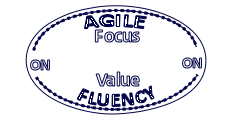
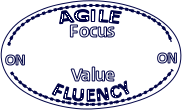
added stamps in passport sandbox

diff --git a/test_client/example/summary_sandbox/client.dart b/test_client/example/summary_sandbox/client.dart
@@ -12,8 +12,38 @@ void addTestSlide()
   //var slideElement = test.currentSection.explain();
   var slideElement = test.currentSection.summary();
   
+  var stamp1 = new ImageElement();
+  stamp1.classes.add("stamp");
+  stamp1.src = "images/stamp_1.png";
+  stamp1.style.left = "3%";
+  stamp1.style.top = "6%";
+  stamp1.style.transform = "rotateZ(10deg)";
+  var stamp2 = new ImageElement();
+  stamp2.classes.add("stamp");
+  stamp2.src = "images/stamp_2.png";
+  stamp2.style.left = "26%";
+  stamp2.style.top = "3%";
+  stamp2.style.transform = "rotateZ(-18deg)";
+  var stamp3 = new ImageElement();
+  stamp3.classes.add("stamp");
+  stamp3.src = "images/stamp_3.png";
+  stamp3.style.left = "6%";
+  stamp3.style.top = "44%";
+  stamp3.style.transform = "rotateZ(-7deg)";
+  var stamp4 = new ImageElement();
+  stamp4.classes.add("stamp");
+  stamp4.src = "images/stamp_4.png";
+  stamp4.style.left = "24%";
+  stamp4.style.top = "42%";
+  stamp4.style.transform = "rotateZ(5deg)";
+  
+  slideElement.insertAdjacentElement("beforeEnd", stamp1);
+  slideElement.insertAdjacentElement("beforeEnd", stamp2);
+  slideElement.insertAdjacentElement("beforeEnd", stamp3);
+  slideElement.insertAdjacentElement("beforeEnd", stamp4);
+  
   //your callbacks here
-  slideElement.on.click.add((event) => done());
+  //slideElement.on.click.add((event) => done());
   
   presentation.addElementSlide(slideElement, 1.0, 200, 200, 0, 0, 0, 0);
   

diff --git a/test_client/example/summary_sandbox/client.css b/test_client/example/summary_sandbox/client.css
@@ -168,6 +168,14 @@ li list-style {
   height: 26em;
 }
 
+#summary img {
+  position: absolute;
+}
+
+.stamp {
+  width: 20%;
+  height: auto;
+}
 
 .passportImage {
   height: 100%;
